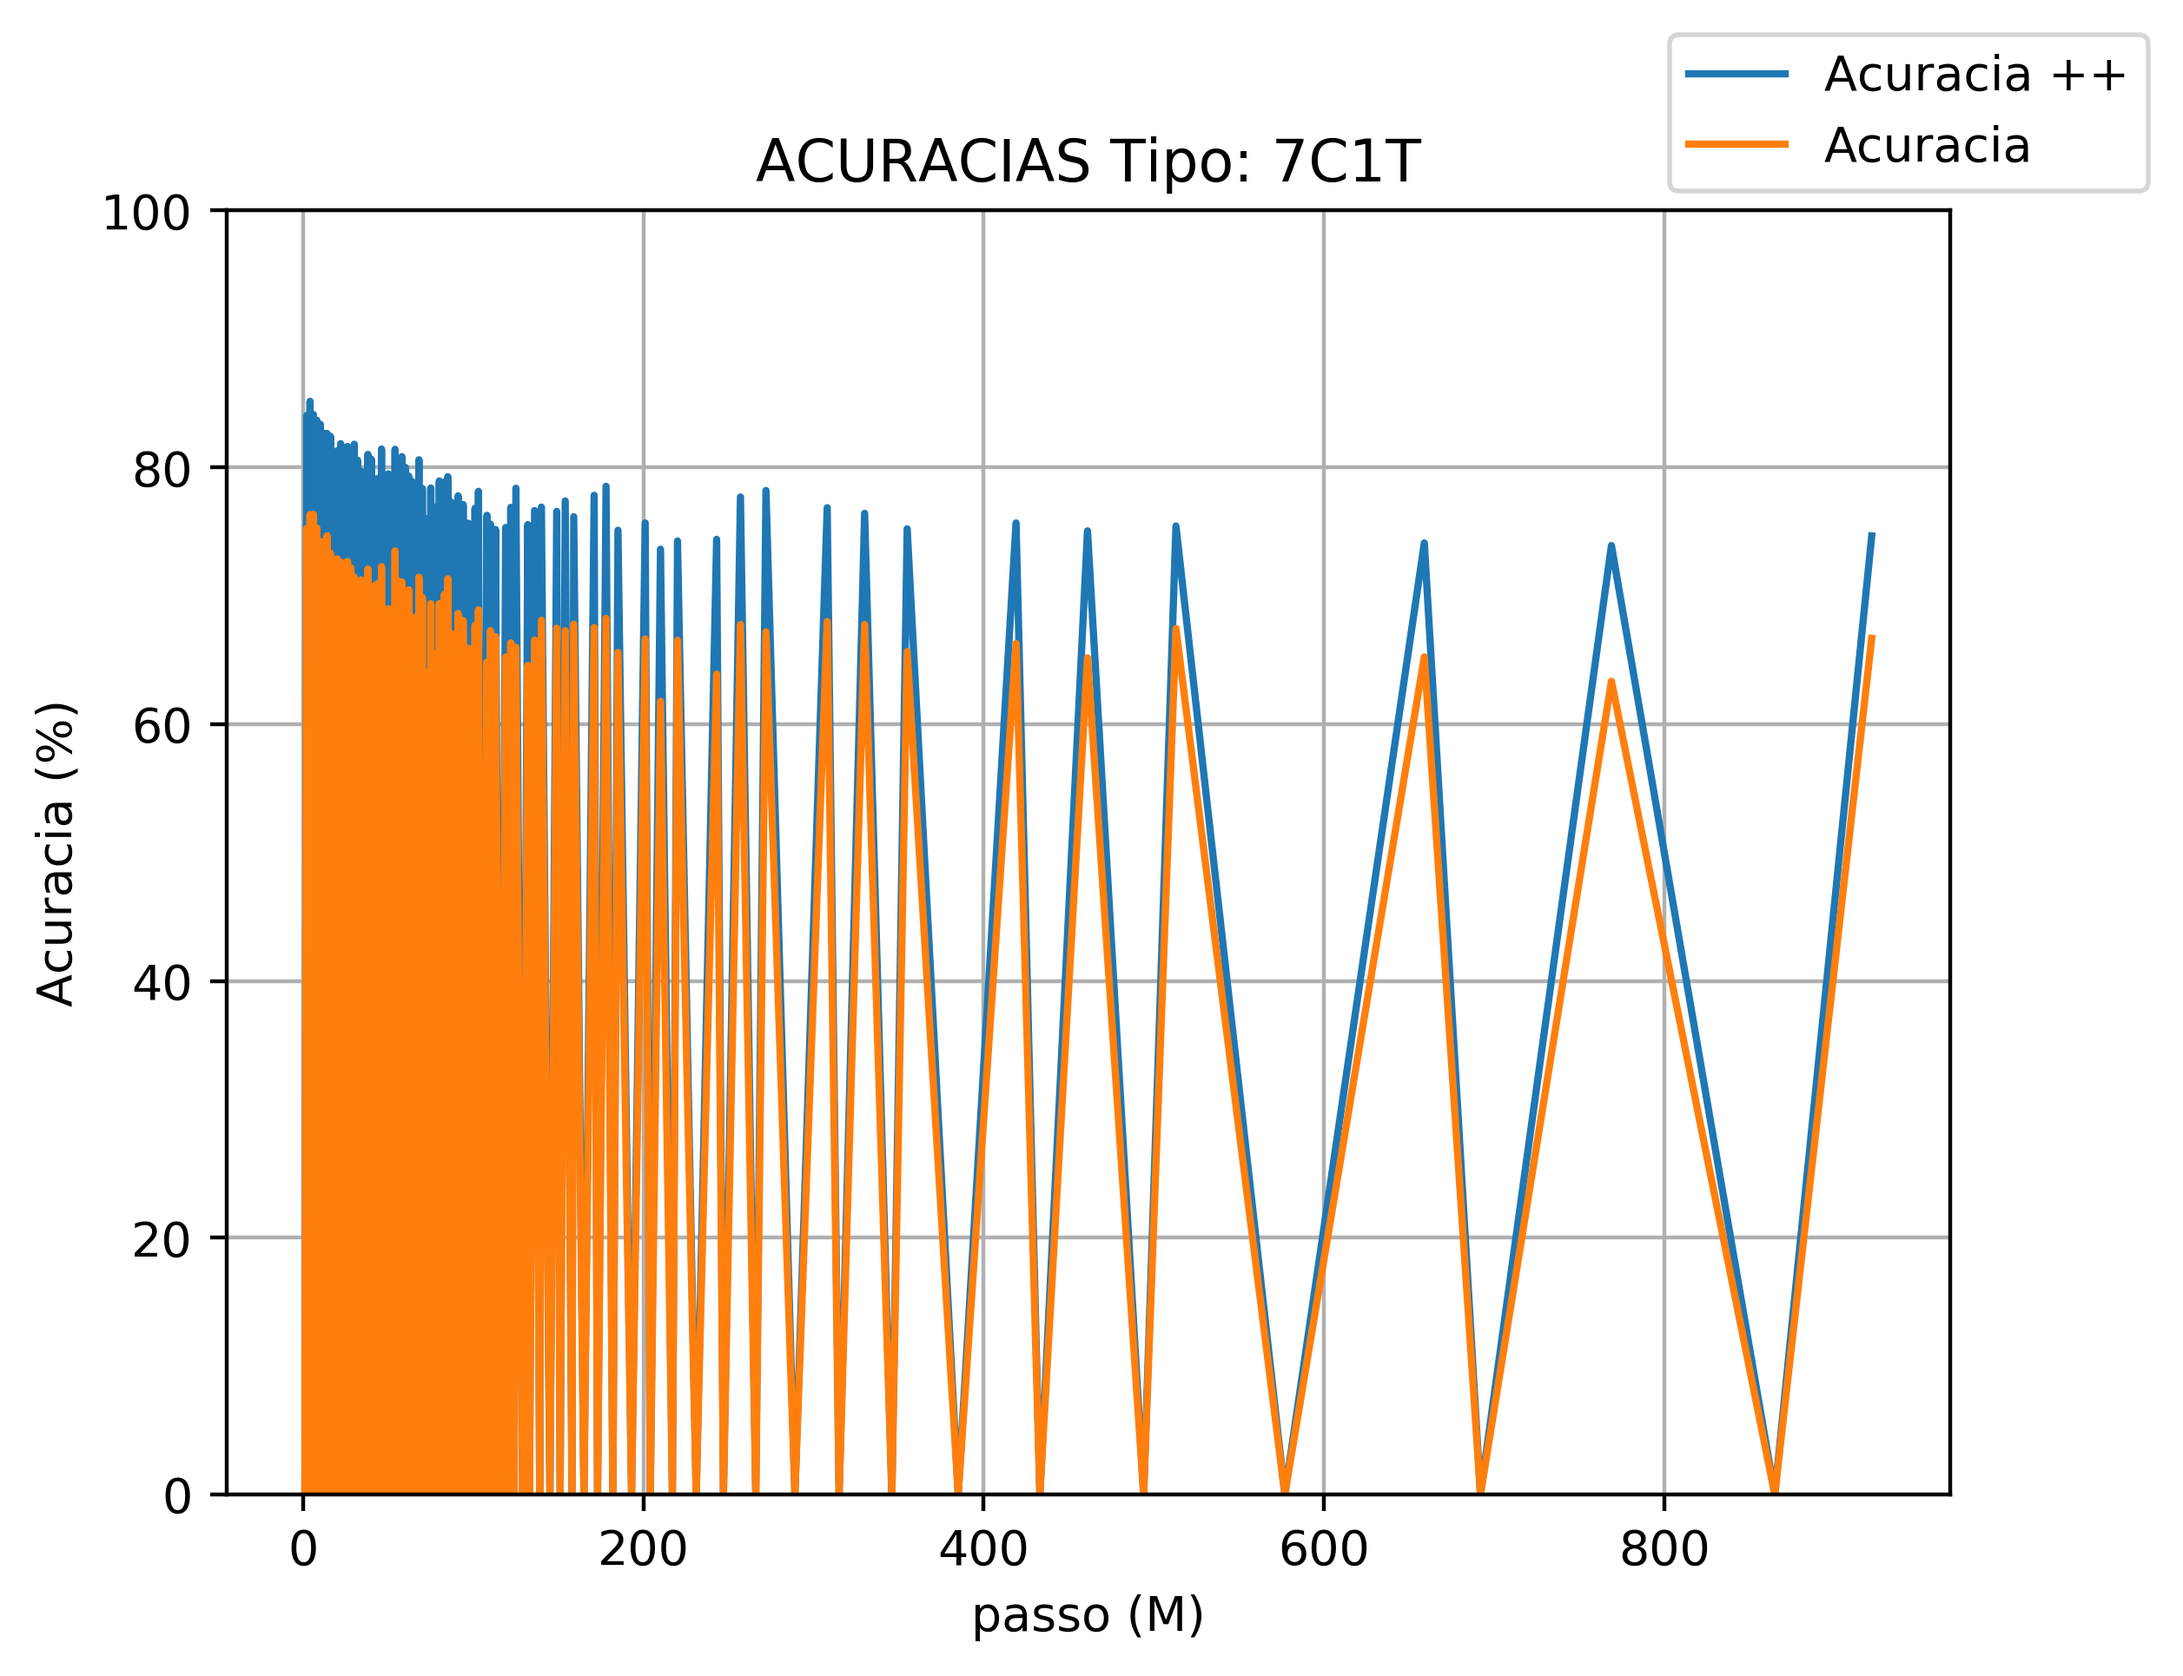
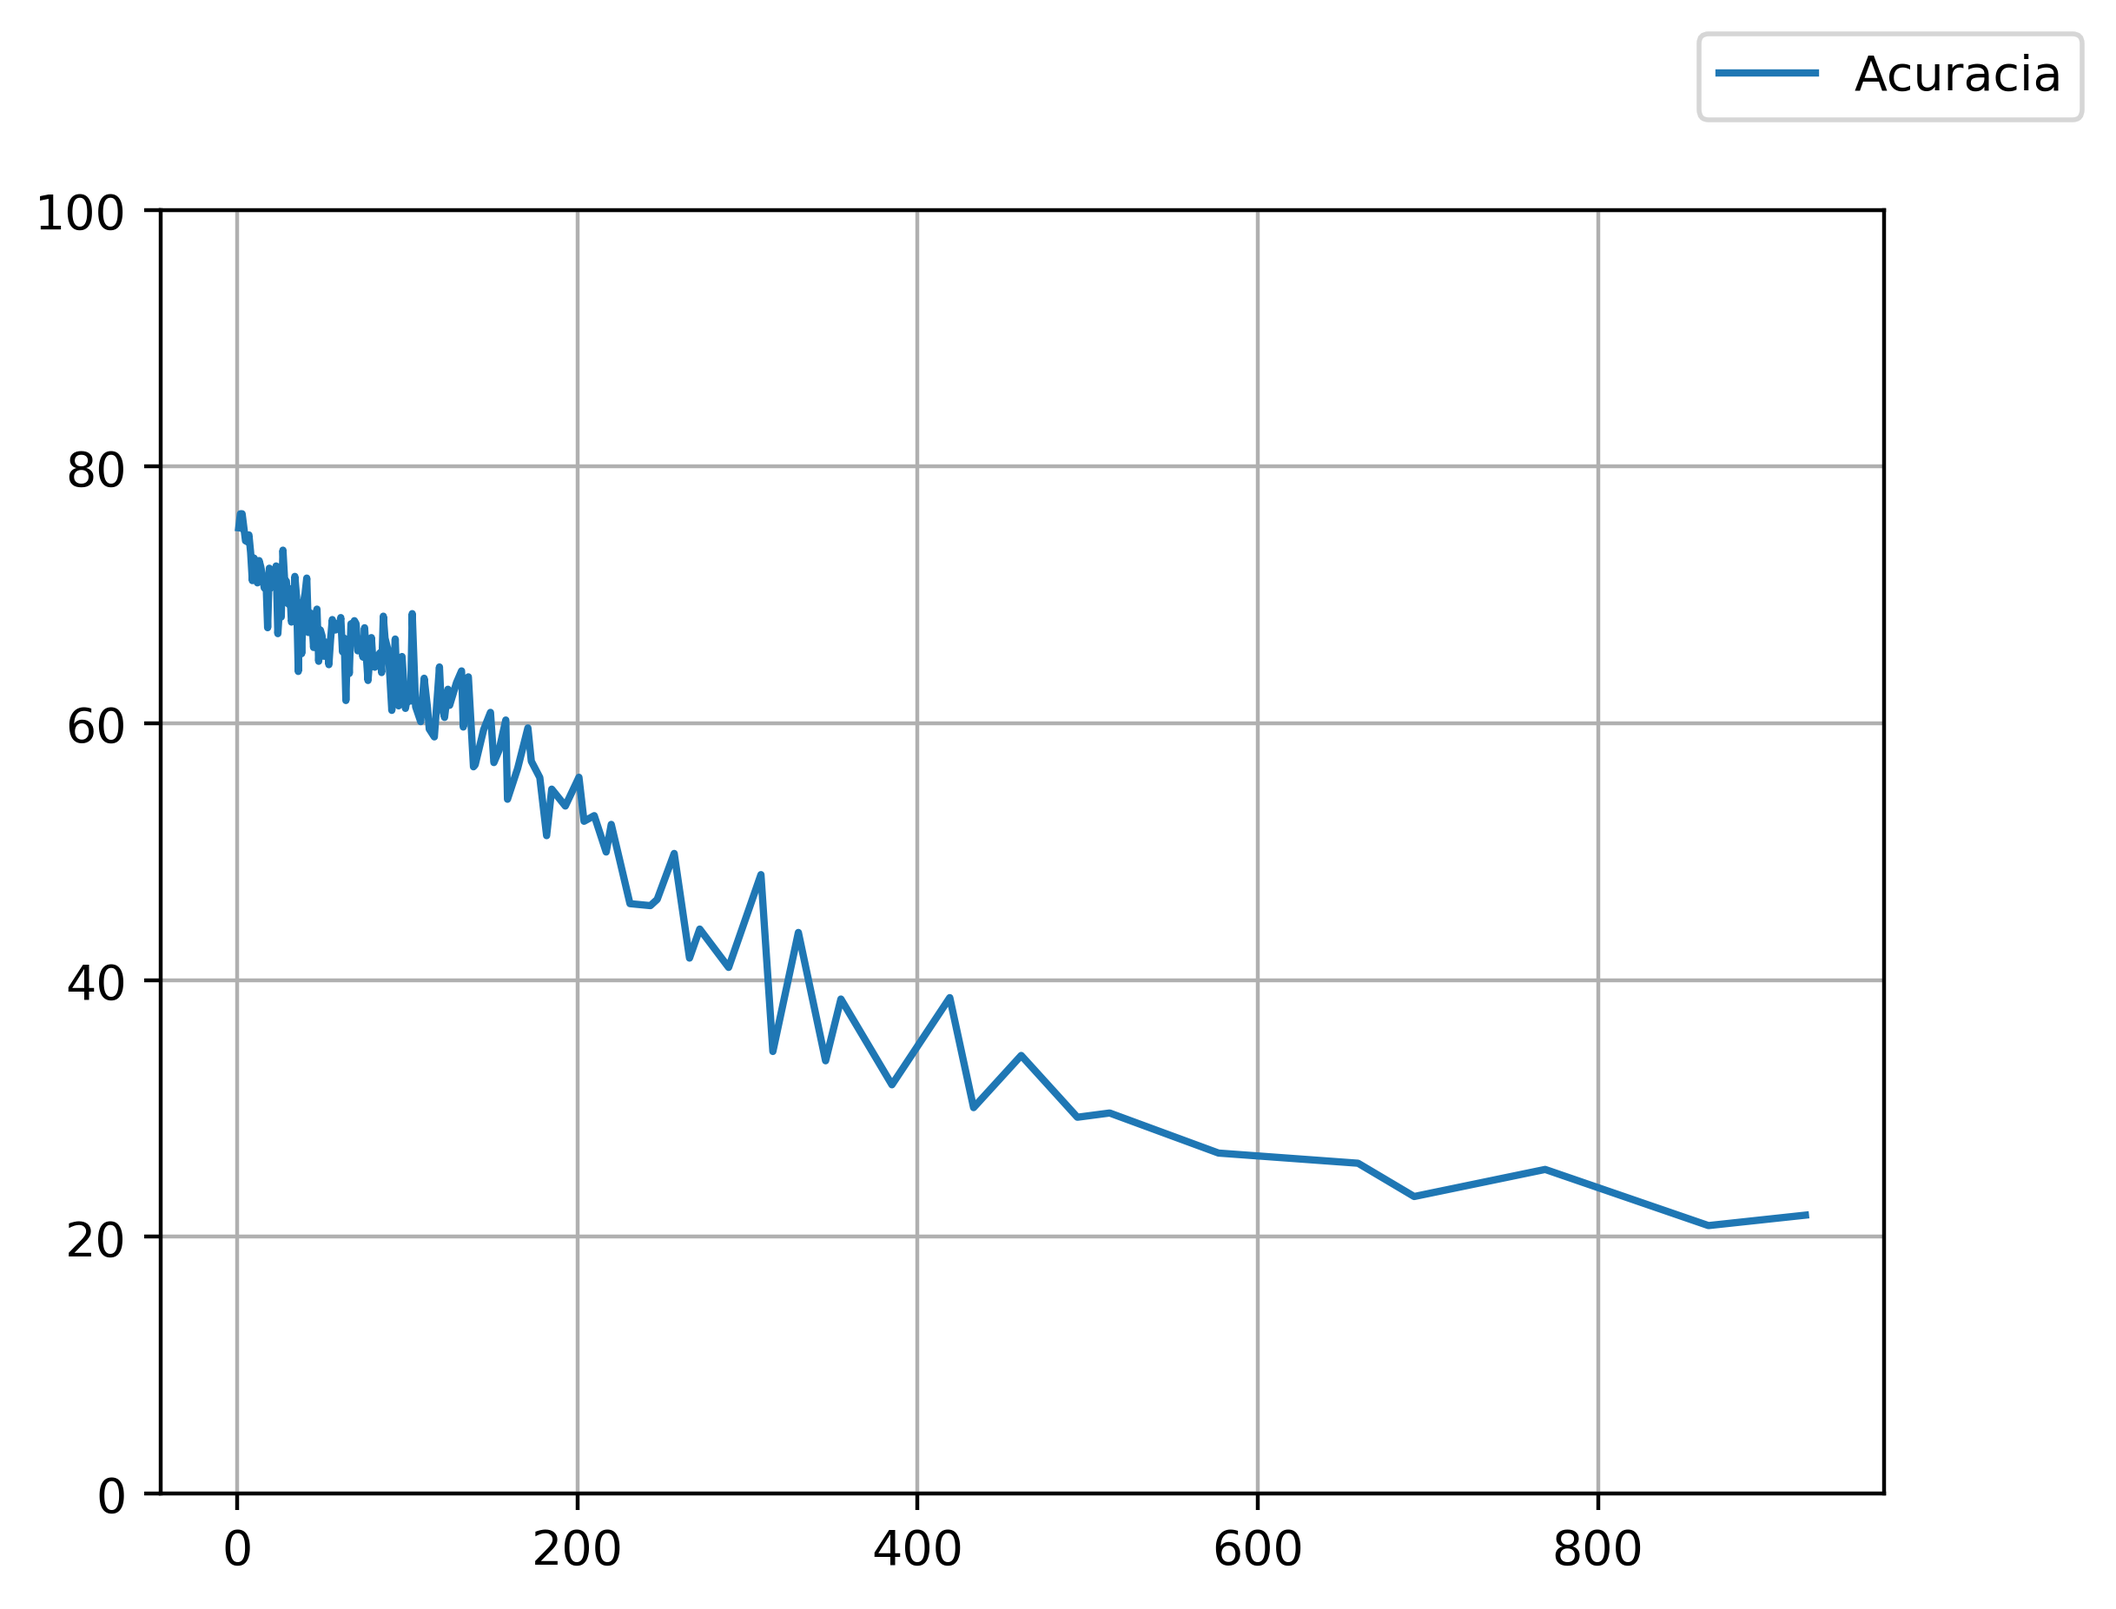
graficos

Changed region(s): [[0.0, 0.0308, 0.9672, 0.9843], [0.0312, 0.9228, 0.0624, 0.9536]]

diff --git a/Python/teste.py b/Python/teste.py
@@ -7,8 +7,14 @@ for i in range(1,1000):
         lista.append((3456/i,4608/i))
         passos.append(i)
 passos.sort(reverse=1)
+acc = []
+acc_ = []
 for i in passos:
     obj = rodada(50,cls)
     obj = obj.load("OBJETOS/02-PASSO_ROI_PRETO-{:03d}%-050Iteracoes_7C1T.pkl".format(i))
-    print float(obj.get_avg_acc()[0][cls])-float(obj.get_std_acc()[cls]),"\t-",float(obj.get_avg_acc()[0][cls]),"\t-",float(obj.get_avg_acc()[0][cls])+float(obj.get_std_acc()[cls]),"\t", i
-    
+    acc.append(float(obj.get_avg_acc()[0][cls])*100)
+    acc_.append(float(obj.get_avg_err()[cls]))
+
+
+for j,i in enumerate(acc_):
+    print str(passos[j])+";"+str(i)+";"

diff --git a/Python/Metodos.py b/Python/Metodos.py
@@ -372,7 +372,6 @@ def geraGraficos(smetodo,passos,peso, reta = 01,tipo = "7C1T"):
 			plt.ylim([0,3705])
 			plt.xlabel('passo (M)')
 			plt.ylabel('Erro (escore)')
-		plt.xlim(passos)
 		plt.legend(bbox_to_anchor=(1, 1), bbox_transform=plt.gcf().transFigure)
 		plt.title(tag+" Tipo: "+tipo)
 		plt.grid(True)
